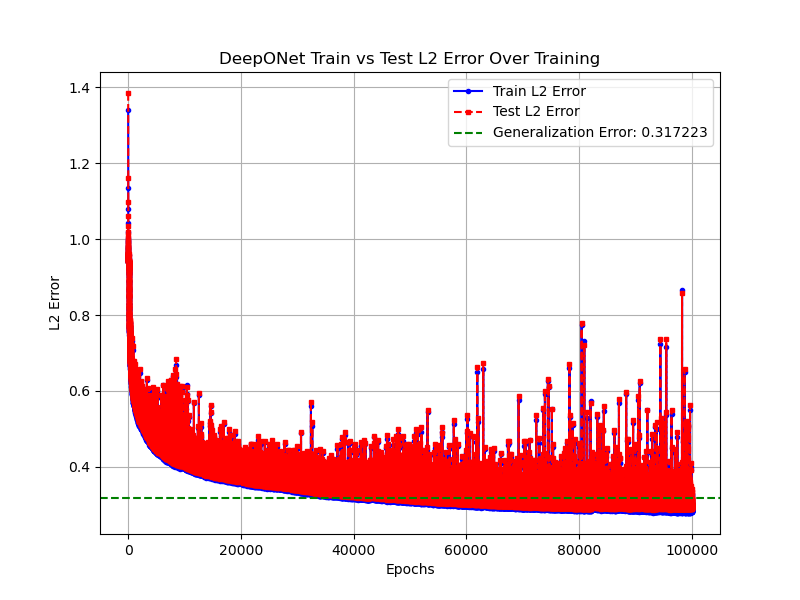
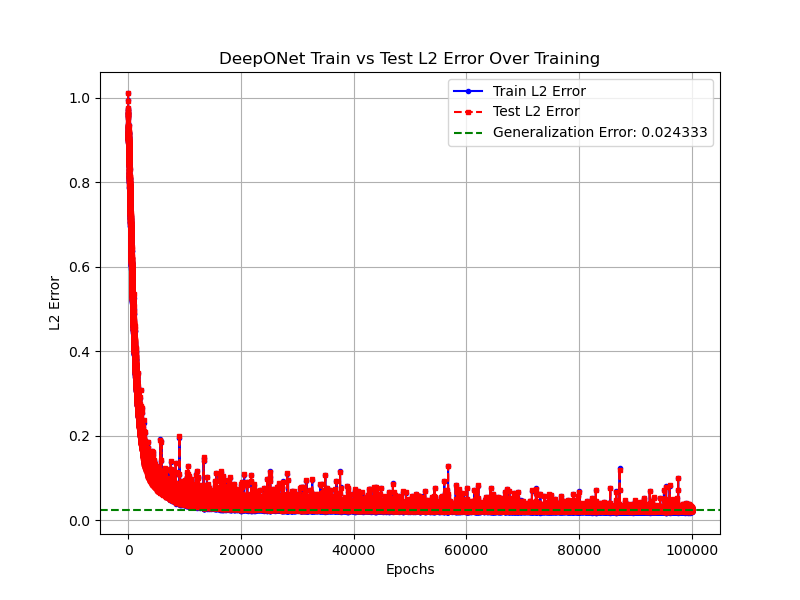
updated deeponet with tanh and 50 basis functions

diff --git a/code/deeponet.py b/code/deeponet.py
@@ -18,11 +18,11 @@ def print_memory_usage(tag=""):
 with open("../results/deeponets/1/dataset1000.json", "r") as f:
     dataset = json.load(f)
 
-# Extract data
-a_samples = jnp.array([sample["a_k"] for sample in dataset], dtype=jnp.float32)  
+# Extract data (Now using 50 basis functions instead of 8)
+a_samples = jnp.array([sample["a_k"][:50] for sample in dataset], dtype=jnp.float32)  
 u_values = jnp.array([sample["u_values"] for sample in dataset], dtype=jnp.float32)  
 
-# Print initial dataset sizes
+# Print dataset info
 print(f"Dataset loaded: {len(dataset)} samples")
 print(f"a_samples shape: {a_samples.shape}, u_values shape: {u_values.shape}")
 print_memory_usage("After Loading Dataset")
@@ -58,7 +58,7 @@ a_train, a_heldout, u_train, u_heldout, x_train, x_heldout = train_test_split(
 print(f"Training samples: {a_train.shape[0]}, Testing samples: {a_test.shape[0]}, Held-out samples: {a_heldout.shape[0]}")
 print_memory_usage("After Train-Test Split")
 
-# Define DeepONet model
+# Define DeepONet model with tanh activation
 class DeepONet(nn.Module):
     trunk_layers: int
     branch_layers: int
@@ -68,15 +68,15 @@ class DeepONet(nn.Module):
     def setup(self):
         self.trunk_net = nn.Sequential([
             nn.Dense(self.hidden_dim),
-            nn.relu,
-            *[nn.Dense(self.hidden_dim), nn.relu] * (self.trunk_layers - 1),
+            nn.tanh,
+            *[nn.Dense(self.hidden_dim), nn.tanh] * (self.trunk_layers - 1),
             nn.Dense(self.output_dim)
         ])
 
         self.branch_net = nn.Sequential([
             nn.Dense(self.hidden_dim),
-            nn.relu,
-            *[nn.Dense(self.hidden_dim), nn.relu] * (self.branch_layers - 1),
+            nn.tanh,
+            *[nn.Dense(self.hidden_dim), nn.tanh] * (self.branch_layers - 1),
             nn.Dense(self.output_dim)
         ])
     
@@ -110,7 +110,7 @@ def train_step(params, opt_state, x, a, true_u):
     params = optax.apply_updates(params, updates)
     return params, opt_state, loss
 
-# **Tracking results efficiently**
+# Tracking results efficiently
 training_results = []
 final_predictions = {}
 
